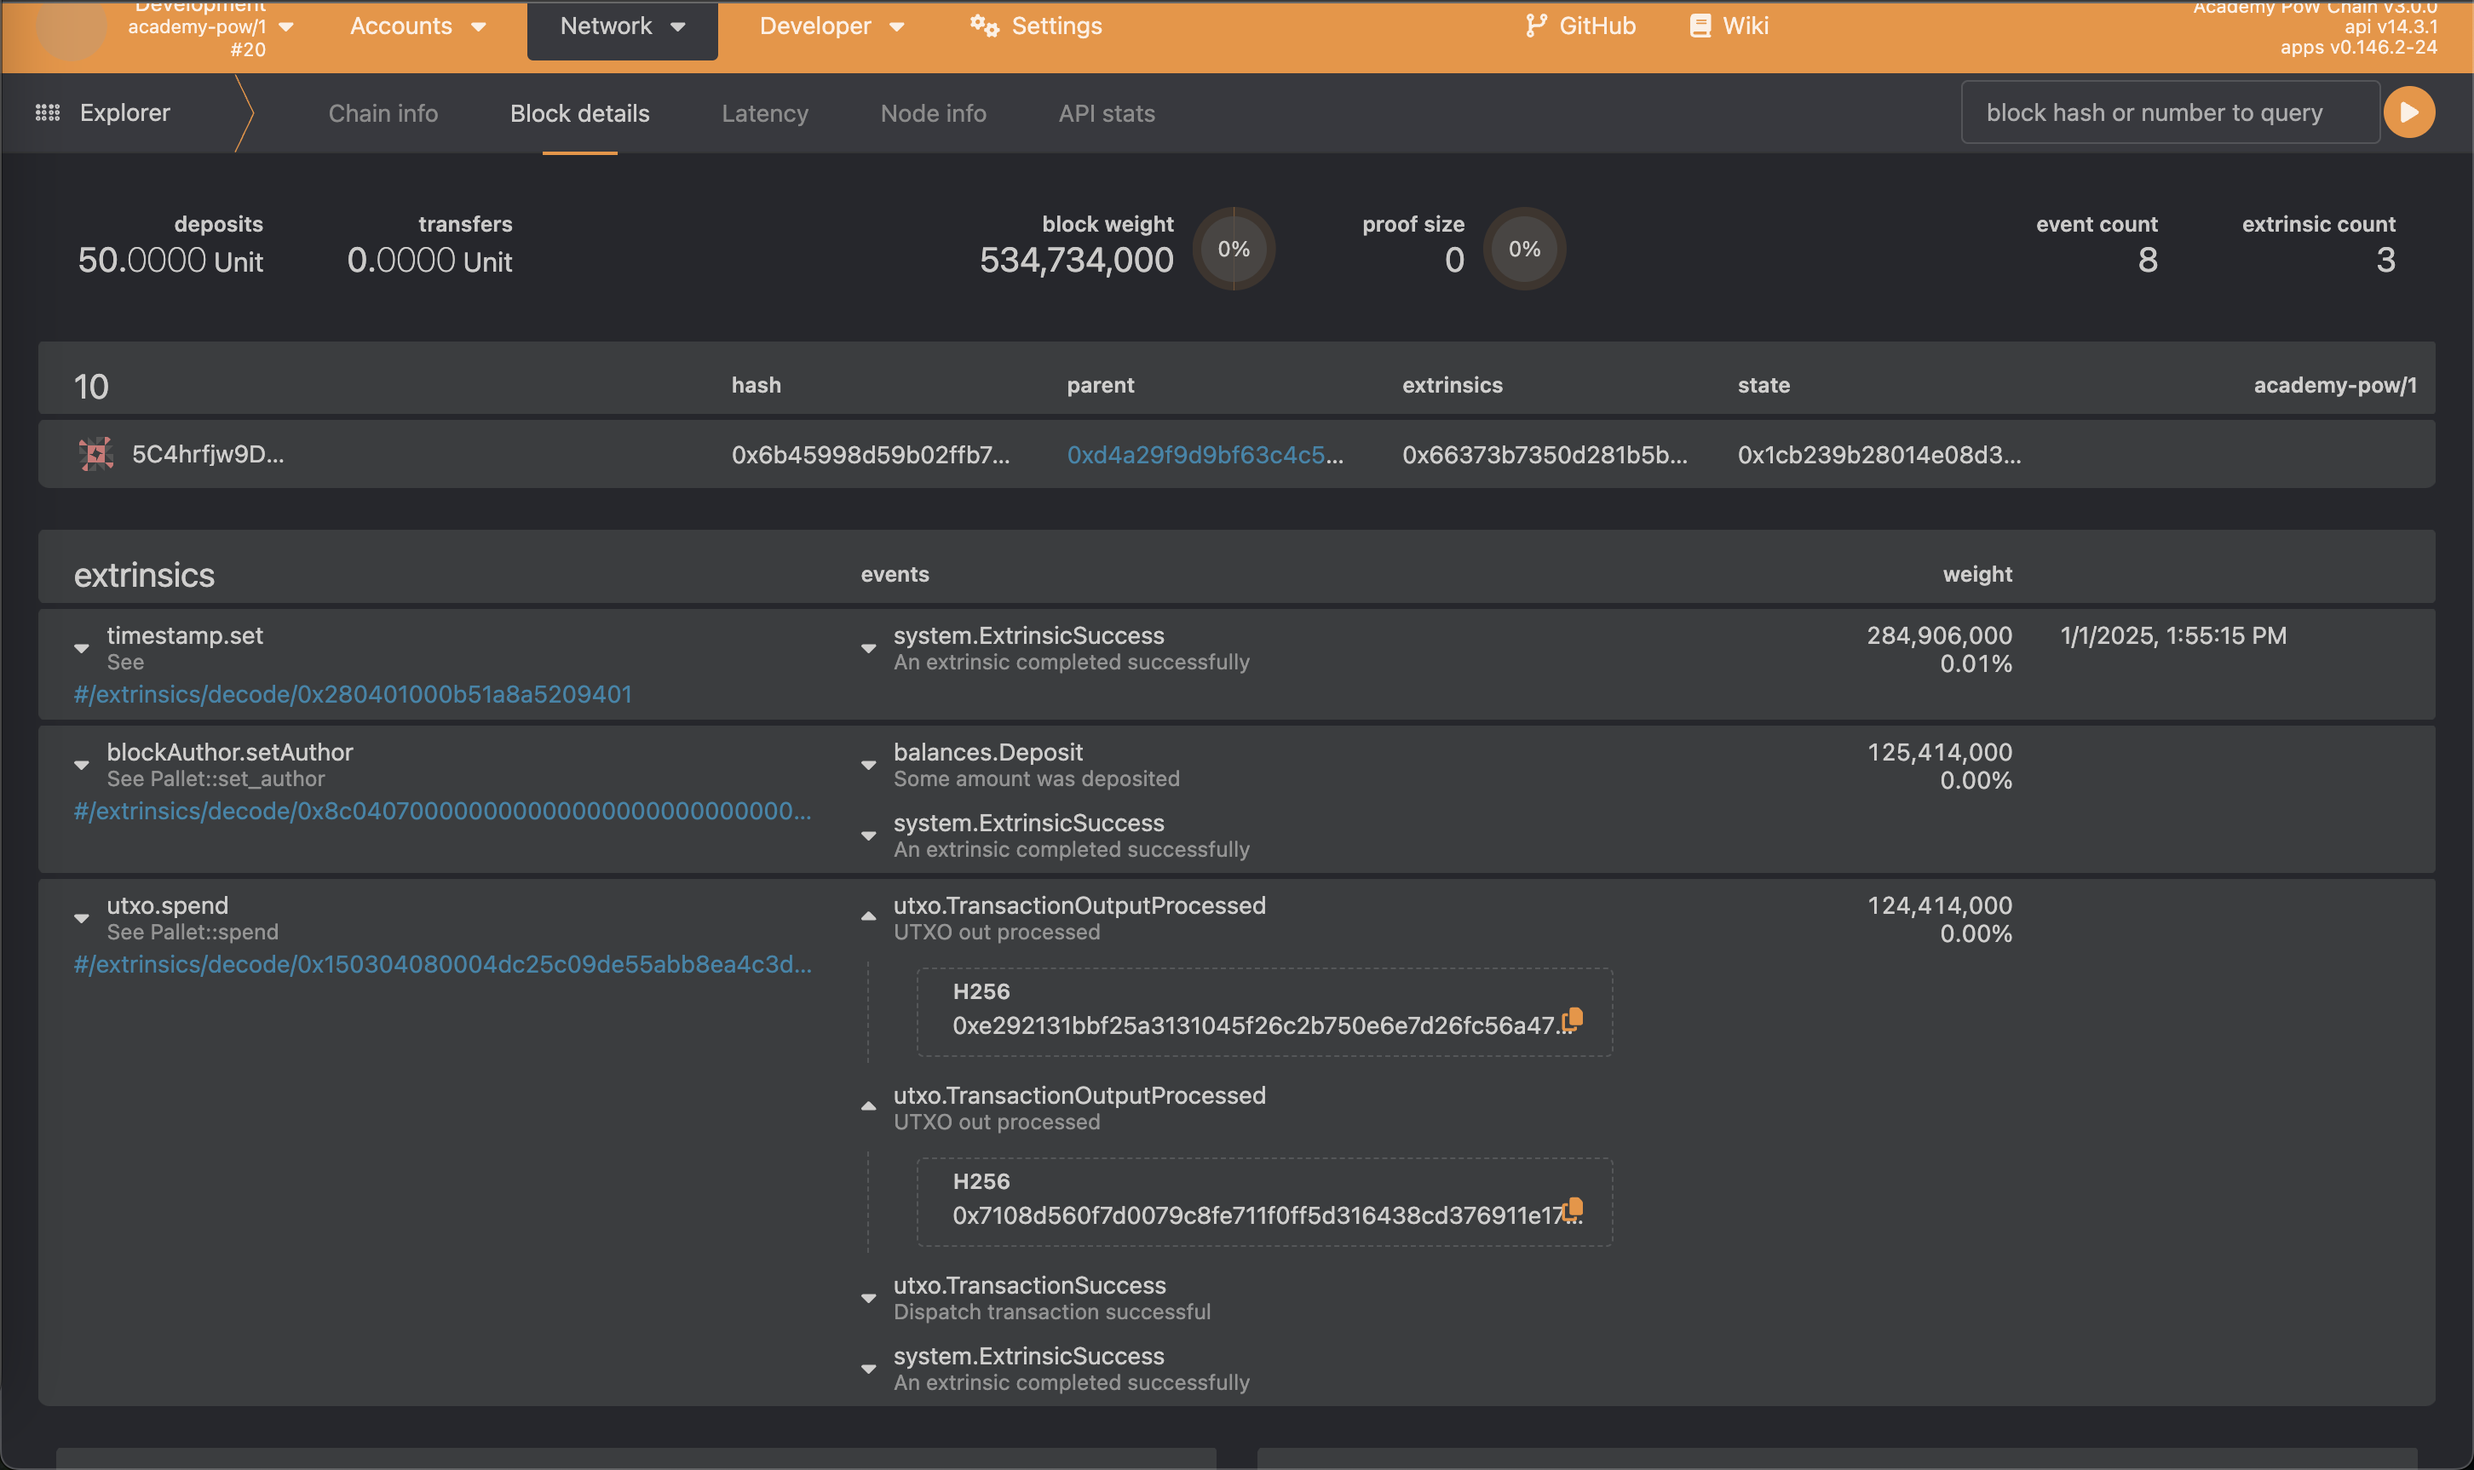
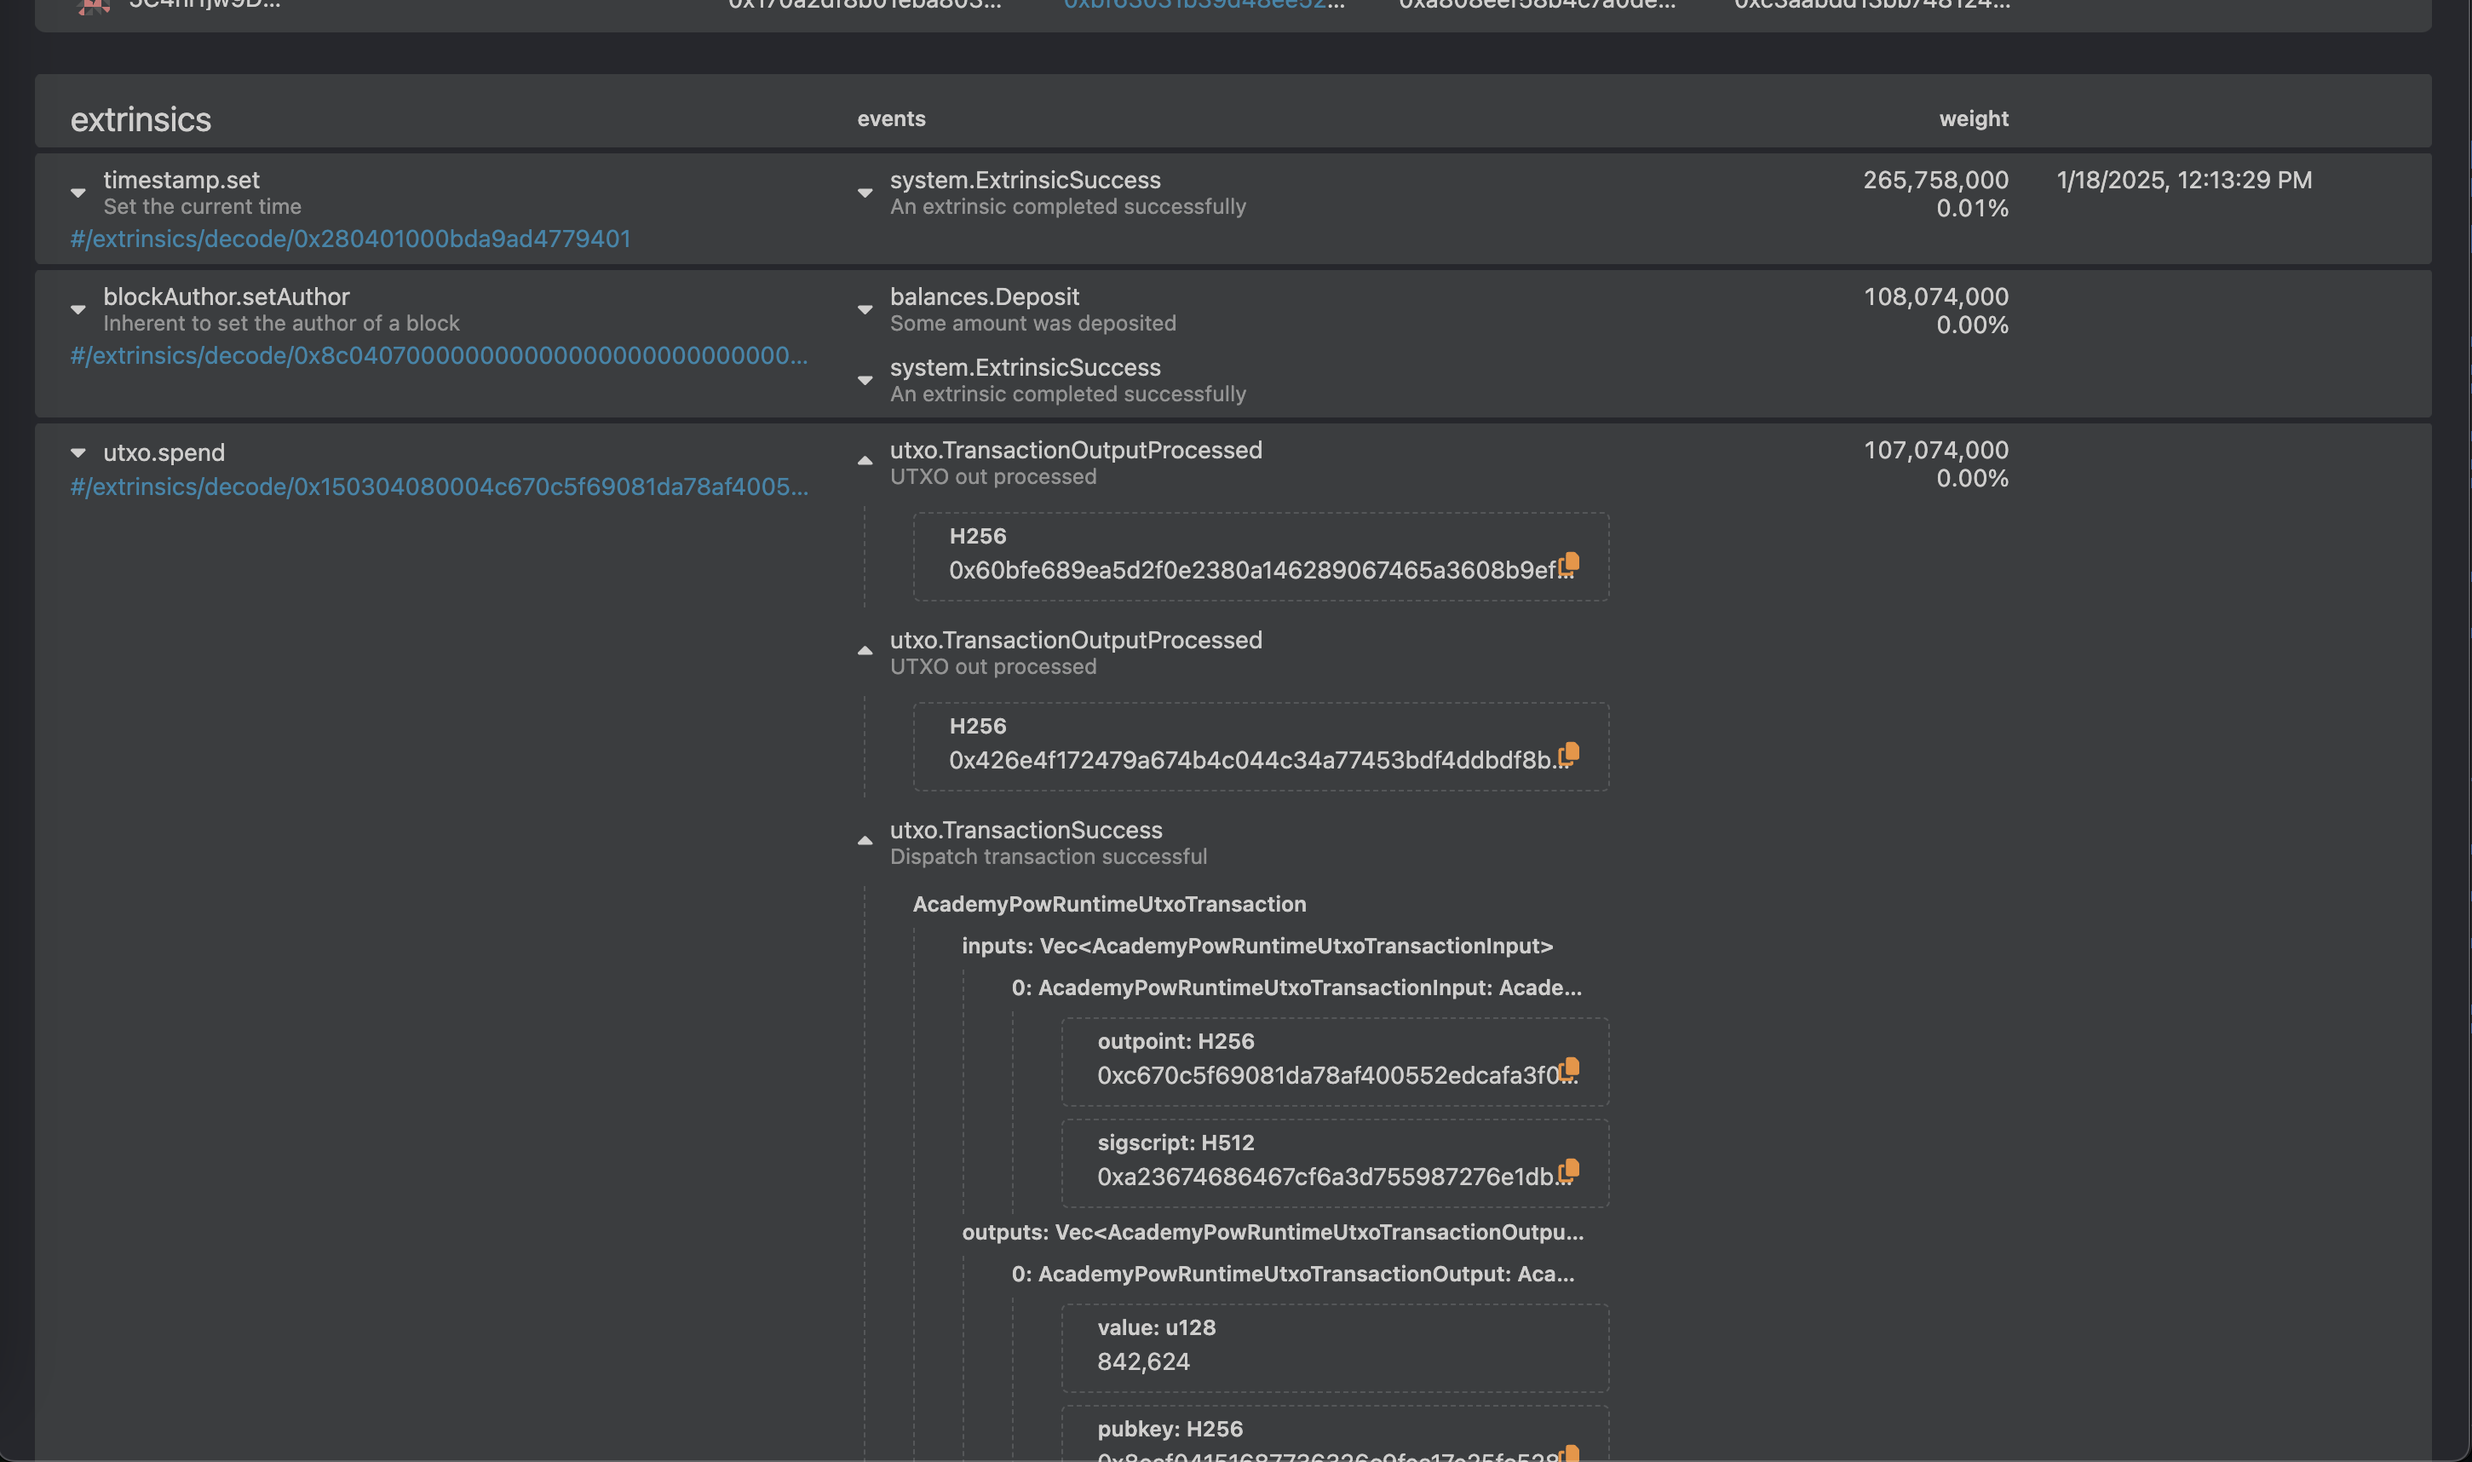
chore: update doc

diff --git a/docs/demo-usage.md b/docs/demo-usage.md
@@ -11,63 +11,63 @@
 
 ## Scenario
 
-1. Initially, Alice has UTXO $100.
-2. She transfers to BOB an UTXO $50, but she doesn't have an UTXO $50. So she has to use her $100.
-3. `TransactionInput` contains `outpoint` is UTXO $100, `sigscript` is signed data of "simple transaction" (refer to `runtime/src/utxo.rs:354`).
+1. Initially, Alice has a UTXO 1,125,899,906,842,624.
+2. She transfers to BOB a UTXO 842,624; but she doesn't have a UTXO $842,624. So she has to use her 1,125,899,906,842,624.
+3. `TransactionInput` contains `outpoint` is UTXO 1,125,899,906,842,624; `sigscript` is signed data of "simple transaction" (refer to `runtime/src/utxo.rs:354`).
 5. There will be 2 `TransactionOutput`s:
-    - `TransactionOutput` contains `value` is UTXO $50, `pubkey` is Bob address
-    - `TransactionOutput` contains `value` is UTXO $50, `pubkey` is Alice address
+    - `TransactionOutput` contains `value` is UTXO 842,624; `pubkey` is Bob address
+    - `TransactionOutput` contains `value` is UTXO 1,125,899,906,000,000; `pubkey` is Alice address
 
 ```mermaid
 flowchart LR
-    AliceBefore[Alice <br/> UTXO $100] --> T{Transaction}
-    T -->|Change| AliceAfter[Alice <br/> UTXO $50]
-    T -->|Receive| Bob[Bob <br/> UTXO $50]
+    AliceBefore[Alice <br/> UTXO 1,125,899,906,842,624] --> T{Transaction}
+    T -->|Change| AliceAfter[Alice <br/> UTXO 842,624]
+    T -->|Receive| Bob[Bob <br/> UTXO 1,125,899,906,000,000]
 ```
 
 ## Steps
 
 - Navigate to: https://polkadot.js.org/apps/?rpc=ws%3A%2F%2F127.0.0.1%3A9944#/extrinsics
 
-### 1. Alice faucets UTXO 100
-
-- Select `utxo`, `faucet`
-
-**Input**
-- `to`: 0xd43593c715fdd31c61141abd04a99fd6822c8558854ccde39a5684e7a56da27d 
-- `amount`: 100
-
-Then submit signed transaction
-
-![1_input](assets/1_input.png)
-
-**Event**
-
-- `hash`: 0xdc25c09de55abb8ea4c3d53bd1ca5c26e0501db8cede096d8328cb482fda935a
-
-![1_event](assets/1_event.png)
-
-
 **Check balance**
 
-- Switch to [_Chain State_](https://polkadot.js.org/apps/?rpc=ws%3A%2F%2F127.0.0.1%3A9944#/chainstate), select `utxo`, `utxoStore`
[1 lines of base64/hex data omitted]
+
+- Switch to [_Chain State_](https://polkadot.js.org/apps/?rpc=ws%3A%2F%2F127.0.0.1%3A9944#/chainstate), select `utxo`, `utxoOf`
[1 lines of base64/hex data omitted]
 - Press **+** button
-- Verify Alice has UTXO 100
+- Verify Alice has a UTXO hash
+```
+utxo.utxoOf: Option<H256>
[1 lines of base64/hex data omitted]
+```
+
+
+- Then select `utxo`, `utxoStore`
[1 lines of base64/hex data omitted]
+- Press **+** button
+- Verify Alice has a UTXO value
+```
+utxo.utxoStore: Option<AcademyPowRuntimeUtxoTransactionOutput>
+{
+  value: 1,125,899,906,842,624
+  pubkey: 0xd43593c715fdd31c61141abd04a99fd6822c8558854ccde39a5684e7a56da27d
+}
+```
 
 ![1_check_balance](assets/1_check_balance.png)
 
 
-### 2. Alice transfers UTXO 50 to Bob, get back UXTO 50
+**Alice transfers UTXO 842,624 to Bob, get back UXTO 1,125,899,906,000,000**
+
 
 **Input**
 
-- `inputs[0].outpoint`: 0xdc25c09de55abb8ea4c3d53bd1ca5c26e0501db8cede096d8328cb482fda935a
-- `inputs[0].sigscript`: 0xa477ed0c2b6014f83259ad2adca605ca2d47fa1fc694f30d87e6fb06482df72c2473bec6627c49904d31ede63c1c4d8d059a94ebb41cd881e3bf98dcc1797084
+- `inputs[0].outpoint`: 0xc670c5f69081da78af400552edcafa3f0f31e84db1b50dd70776e0f87477b3dc
+- `inputs[0].sigscript`: 0xa23674686467cf6a3d755987276e1dbb71b4800ff99f2721e7d4fd52774fe43086ed5a385b5cde80a346be5eb7afd3e95ef1dd9b9069deee889cd432891ba481
 
-- `outputs[0].value`: 50
+- `outputs[0].value`: 842624
 - `outputs[0].pubkey`: 0x8eaf04151687736326c9fea17e25fc5287613693c912909cb226aa4794f26a48
-- `outputs[1].value`: 50
+- `outputs[1].value`: 1125899906000000
 - `outputs[1].pubkey`: 0xd43593c715fdd31c61141abd04a99fd6822c8558854ccde39a5684e7a56da27d
 
 
@@ -78,8 +78,8 @@ Then submit unsigned transaction
 
 **Events**
 
-- hash of Bob: 0xe292131bbf25a3131045f26c2b750e6e7d26fc56a473aaf19e3a60d15ca3a82f
-- hash of Alice: 0x7108d560f7d0079c8fe711f0ff5d316438cd376911e176b8bab62327e5ff8f0a
+- New UTXO hash of Bob: 0x60bfe689ea5d2f0e2380a146289067465a3608b9ef20ef9e152cf501c0040dba
+- New UTXO hash of Alice: 0x426e4f172479a674b4c044c34a77453bdf4ddbdf8b3993d586a05d9cffe57bd3
 
 ![2_event](assets/2_event.png)
 
@@ -89,26 +89,17 @@ Then submit unsigned transaction
 - Switch to [_Chain State_](https://polkadot.js.org/apps/?rpc=ws%3A%2F%2F127.0.0.1%3A9944#/chainstate), select `utxo`, `utxoStore`
 
 Alice: 
[2 lines of base64/hex data omitted]
 - Press **+** button
-- Verify Alice has an UTXO $50
+- Verify Alice has a UTXO 1,125,899,906,000,000
 
 Bob:
[2 lines of base64/hex data omitted]
 - Press **+** button
-- Verify Bob has an UTXO $50
+- Verify Bob has a UTXO 842,624
 
 
 ![2_check_balance](assets/2_check_balance.png)
-
-## 3. Another way to check the Account balance
-
-- Head over to [_Chain State_](https://polkadot.js.org/apps/?rpc=ws%3A%2F%2F127.0.0.1%3A9944#/chainstate), select `utxo`, `utxoOf`
-- Input sr25519::Pubkey of Alice or Bob, refer to [this](#Address)
-- Then you'll get the latest UTXO hash of them, now you can easily keep track the balance of accounts.
-
-![3_another_way_to_check_balance](assets/3_another_method_to_check_balance.png)
-
 
 ### Custom your own
 

diff --git a/README.md b/README.md
@@ -61,16 +61,11 @@ Then follow branches `step-*` to complete this tutorial.
 | #1   | ✅     | [step-1-setup](https://github.com/danielbui12/substrate-bitcoin-like-blockchain/tree/step-1-setup) | Clone `substrate-bitcoin-like-blockchain` and checkout branch `step-1-setup` to setup the template code on the local. |
 | #2   | ✅     | [step-2-data-structure](https://github.com/danielbui12/substrate-bitcoin-like-blockchain/tree/step-2-data-structure) | Learn about Pallet storage and write basic data structures for UTXO account model. |
 | #3   | ✅     | [step-3-spend-utxo](https://github.com/danielbui12/substrate-bitcoin-like-blockchain/tree/step-3-spend-utxo) | Learn about dispatchable functions, and write an extrinsic to allow accounts to transfer their tokens. |
-| #4   | 🟡     | [step-4-dispersed-reward](https://github.com/danielbui12/substrate-bitcoin-like-blockchain/tree/step-4-dispersed-reward) | Learn about pallet hook and pallet lifecycle, event and write method to mutate storage. |
-| #5   | 🟡     | [step-5-runtime](https://github.com/danielbui12/substrate-bitcoin-like-blockchain/tree/step-5-runtime) | Understanding Substrate runtime & transition pool. Override validate transaction to allow UTXO transactions. |
-| #6   | 🟡     | [step-6-genesis-builder](https://github.com/danielbui12/substrate-bitcoin-like-blockchain/tree/step-6-genesis-builder) | Learn & implement genesis config & genesis builder for pallet UTXO. |
-| #7   | 🟡     | [step-7-client-sigscript](https://github.com/danielbui12/substrate-bitcoin-like-blockchain/tree/step-7-client-sigscript) | Using polkadot.js to generate signed data for UTXO spend transaction. |
+| #4   | ✅     | [step-4-dispersed-reward](https://github.com/danielbui12/substrate-bitcoin-like-blockchain/tree/step-4-dispersed-reward) | Learn about pallet hook and pallet lifecycle, event and write method to mutate storage. |
+| #5   | ✅     | [step-5-runtime](https://github.com/danielbui12/substrate-bitcoin-like-blockchain/tree/step-5-runtime) | Understanding Substrate runtime & transition pool. Override validate transaction to allow UTXO transactions. |
+| #6   | ✅     | [step-6-genesis-builder](https://github.com/danielbui12/substrate-bitcoin-like-blockchain/tree/step-6-genesis-builder) | Learn & implement genesis config & genesis builder for pallet UTXO. |
+| #7   | ✅     | [step-7-warp-up](https://github.com/danielbui12/substrate-bitcoin-like-blockchain/tree/step-7-warp-up) |  |
 
-
-✅ stands for `Finished` 
-
-
-🟡 stands for `In Progress`
 
 ## FAQ
 
